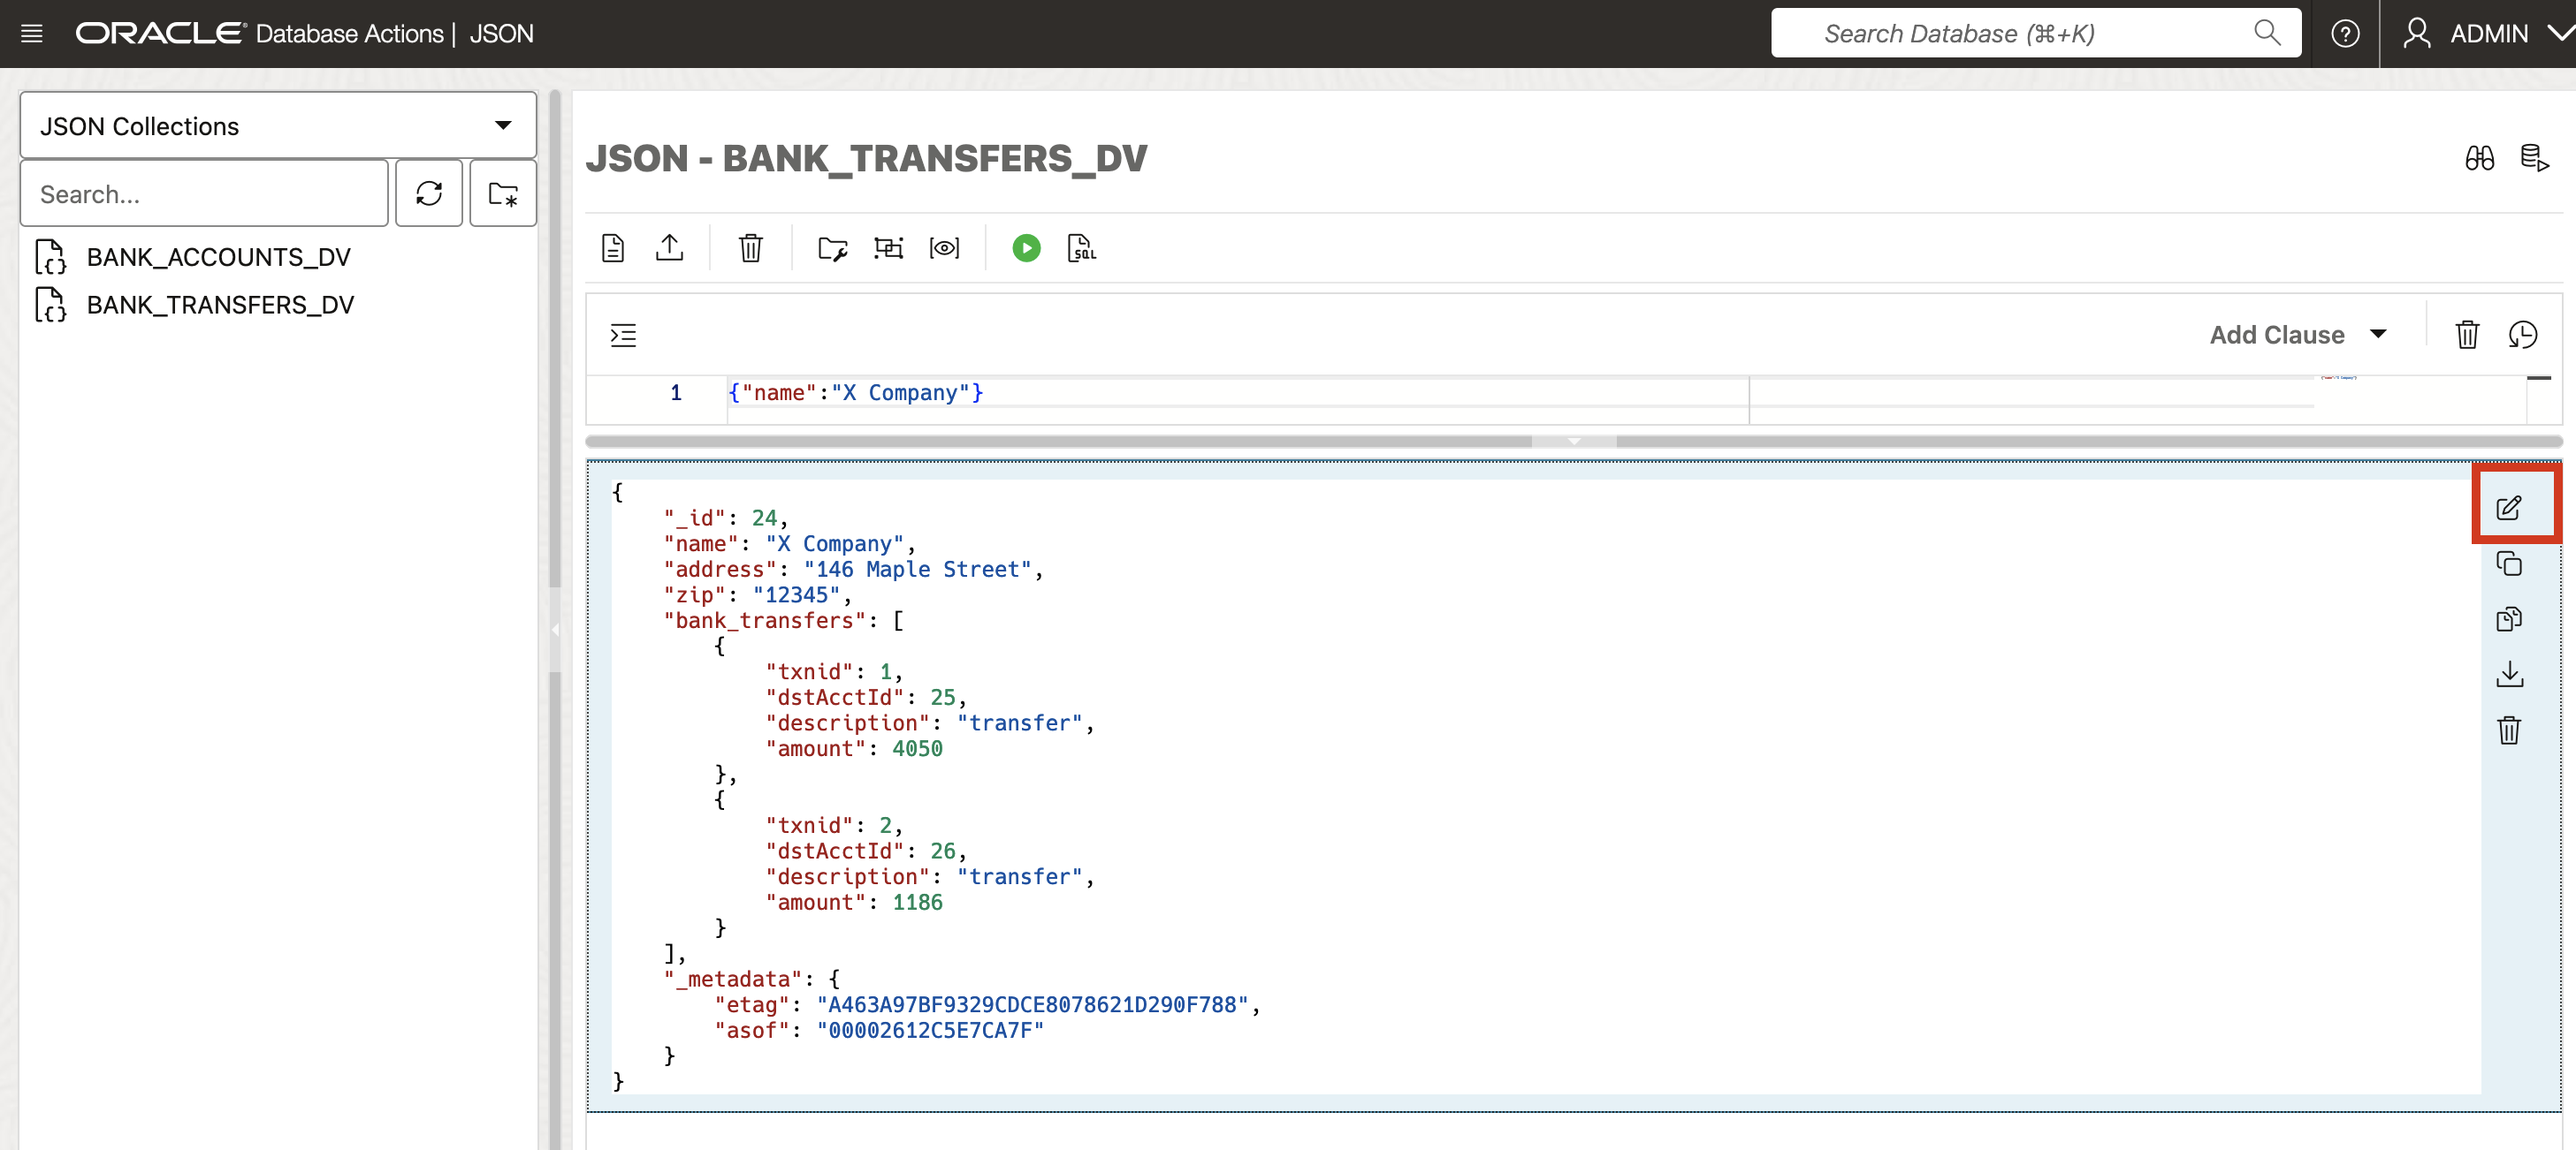
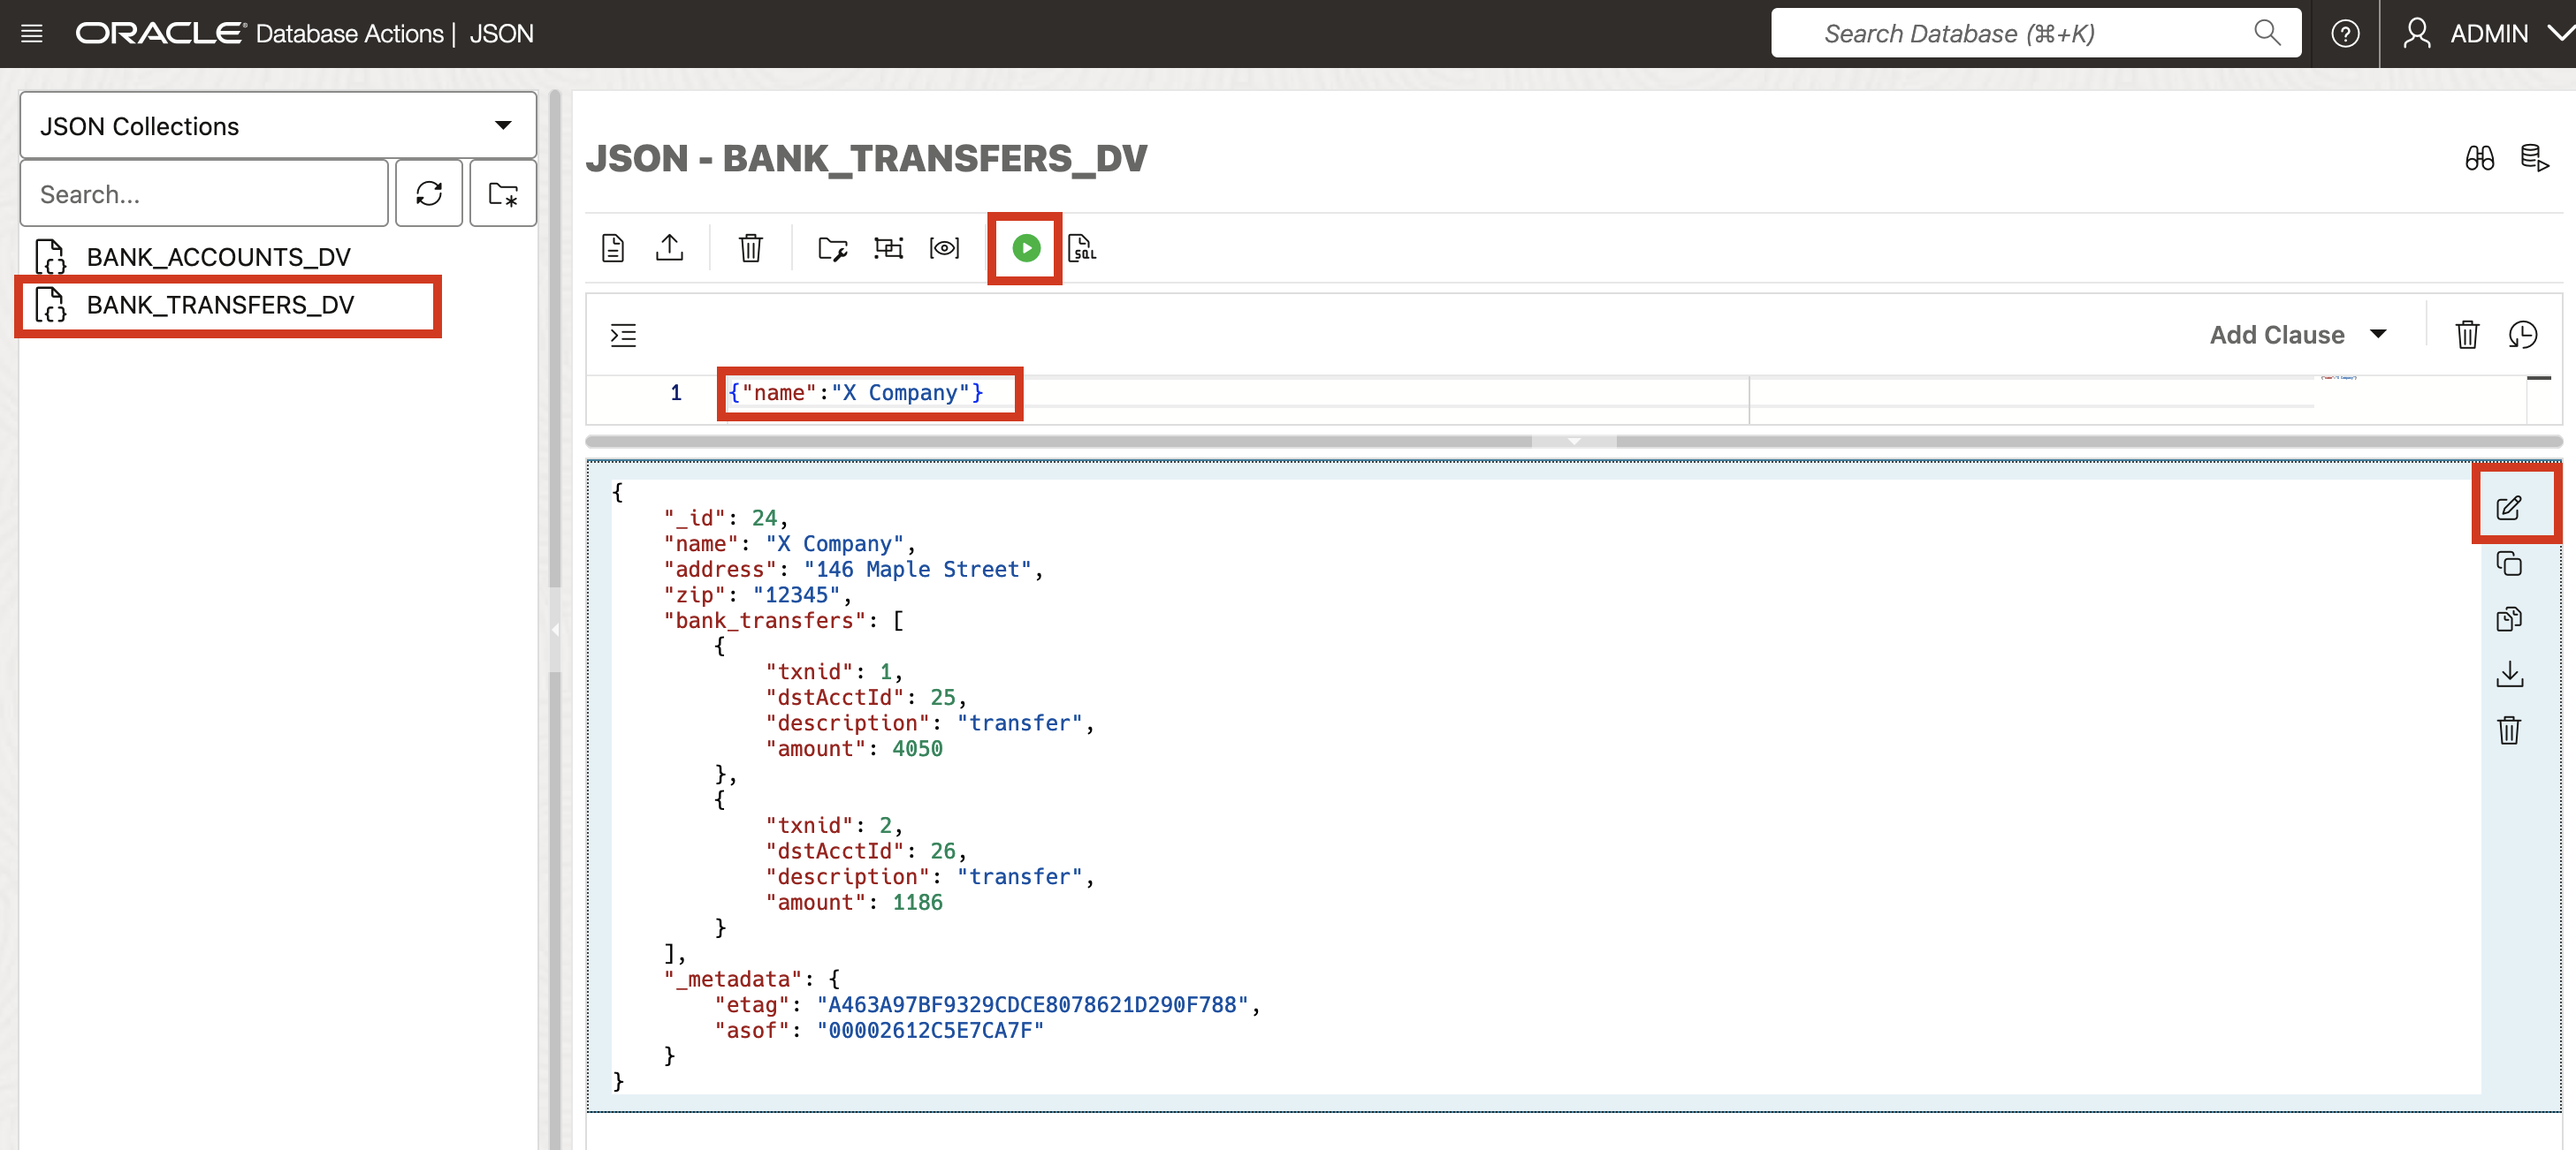
Fix some issue in JSON Duality

Changed region(s): [[0.0, 0.2151, 0.1874, 0.3072], [0.2811, 0.3072, 0.406, 0.3687], [0.3747, 0.1843, 0.4372, 0.2458]]

diff --git a/ai-analytics-for-enterprises-workshop/create-graph/create-graph-workshop.md b/ai-analytics-for-enterprises-workshop/create-graph/create-graph-workshop.md
@@ -35,6 +35,10 @@ Watch the video below for a quick walk-through of the lab. The lab instructions 
 
     ![Content of the zip file](images/1-unzip-workshop.png)
 
+3. Back to the SQL action console.
+
+    ![Back to console](images/im8-workshop.png)
+
 3. Import bank account and transfer example data into your database.
 
     ![Load data](images/2-loaddata-workshop.png)

diff --git a/ai-analytics-for-enterprises-workshop/database-setup/database-setup-workshop.md b/ai-analytics-for-enterprises-workshop/database-setup/database-setup-workshop.md
@@ -33,6 +33,7 @@ The objective of this workshop is to set up the 23ai always free ADB. The follow
 
 5. You've now login in Oracle Autonomous Database 23ai on Oracle Cloud Infrastructure. Explore any of the labs at your own pace.
 
+    ![locate adb](images/im8-workshop.png " ")
     ![locate adb](images/im7-workshop.png " ")
 
 ## Learn More

diff --git a/ai-analytics-for-enterprises-workshop/new-duality-views/new-duality-views-workshop.md b/ai-analytics-for-enterprises-workshop/new-duality-views/new-duality-views-workshop.md
@@ -208,6 +208,12 @@ This lab assumes you have:
 
 3. Let's now try and update company info from **`bank_transfers_dv`**. You'll see that this is not allowed!
 
+	```
+	<copy>
+    {"name":"X Company"}
+	</copy>
+    ```
+
     ![update account table](images/im4-JSON-update-company1-workshop.png " ")
 
     ```
